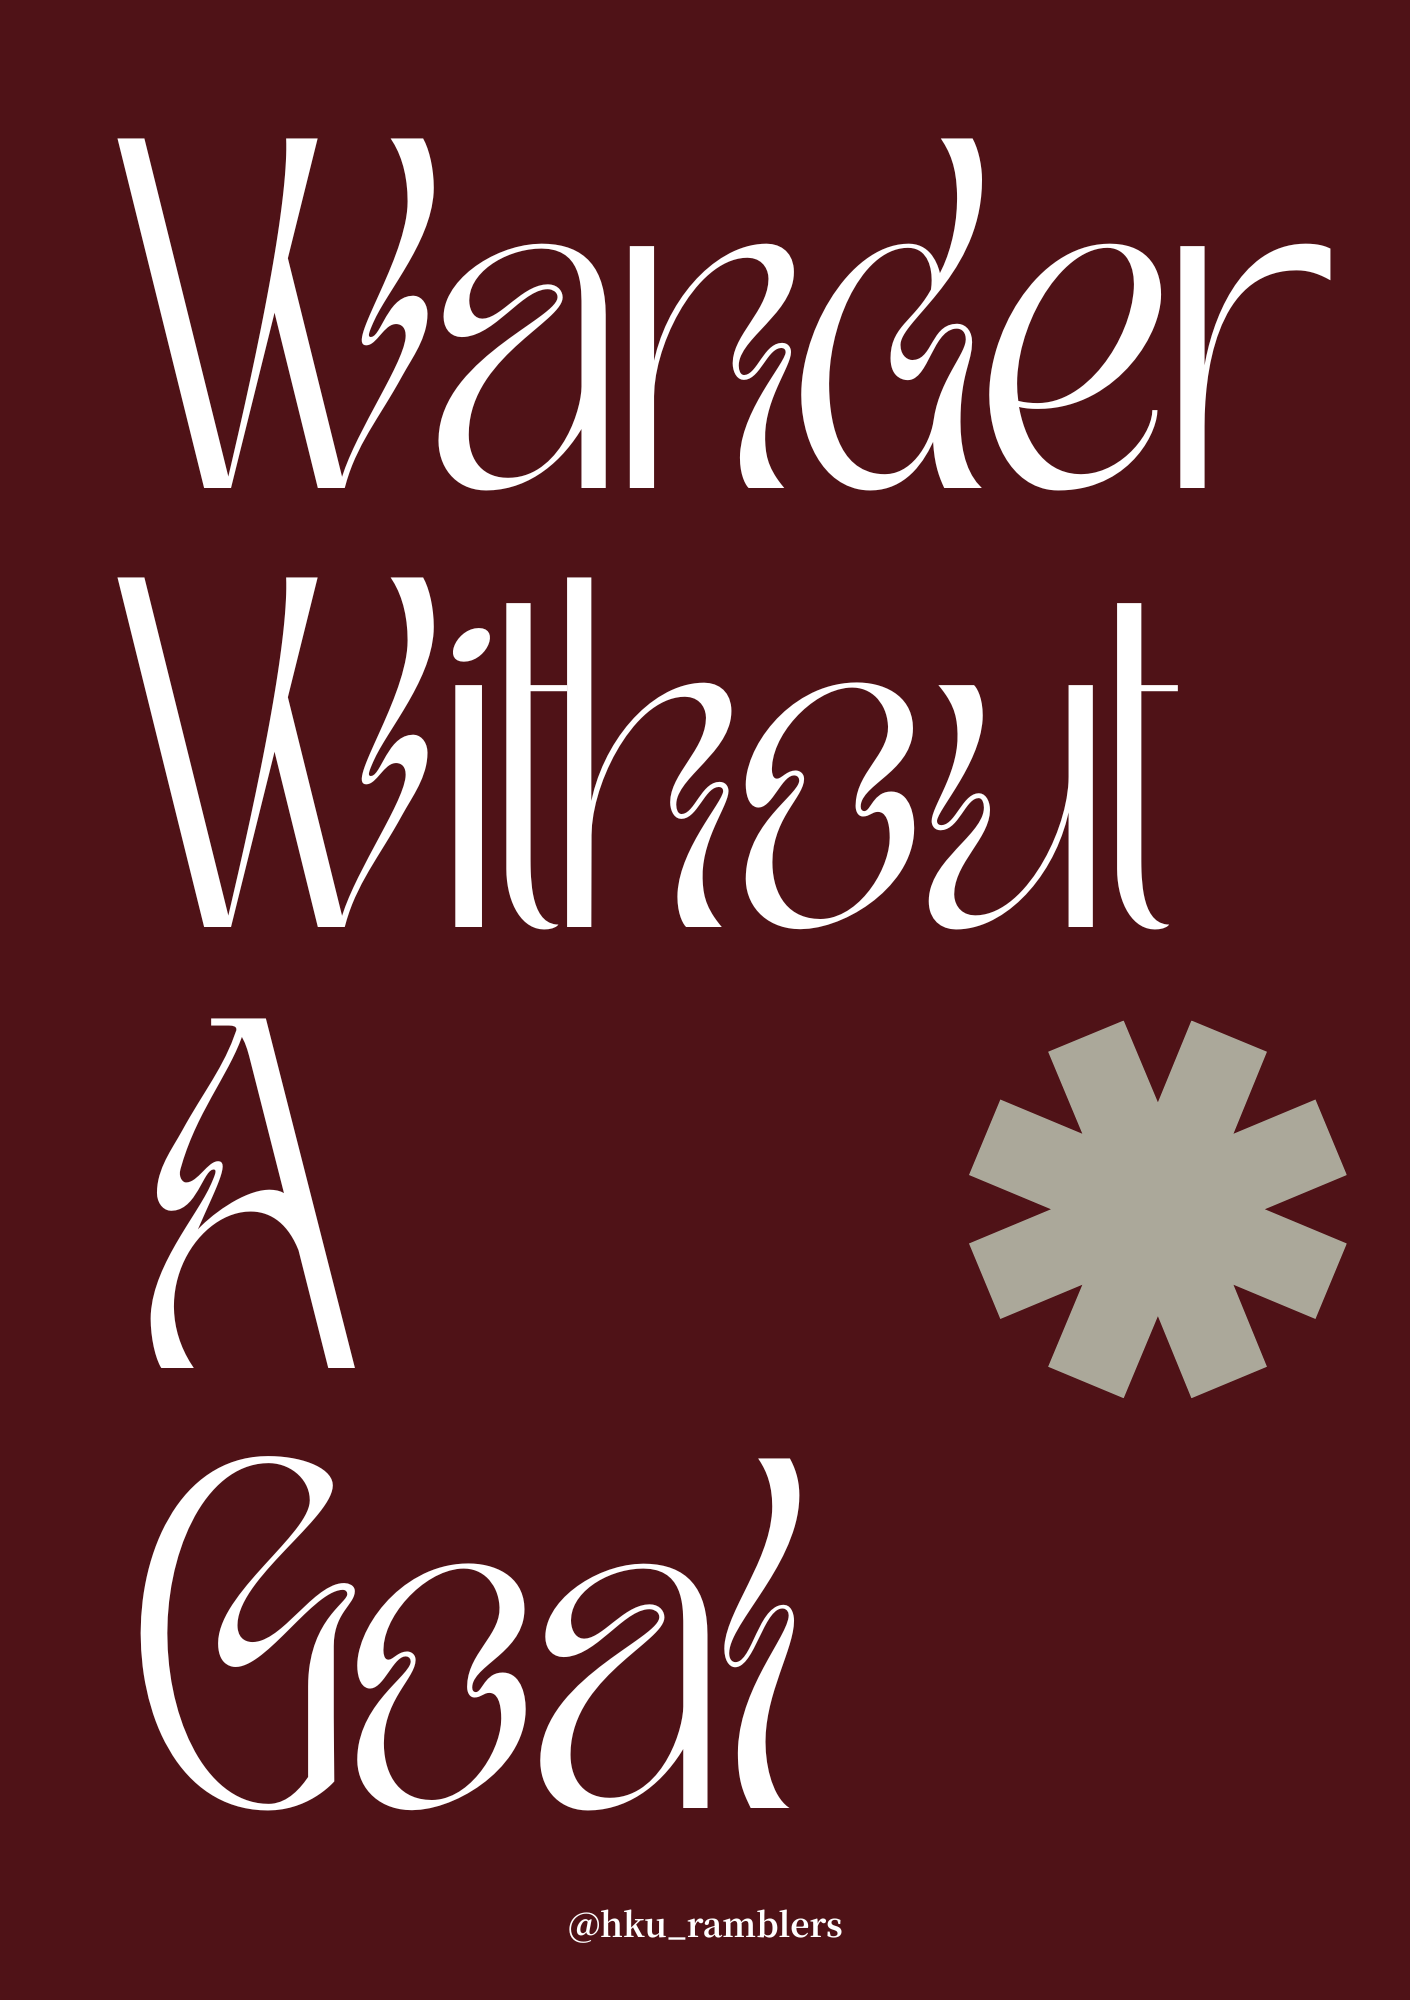
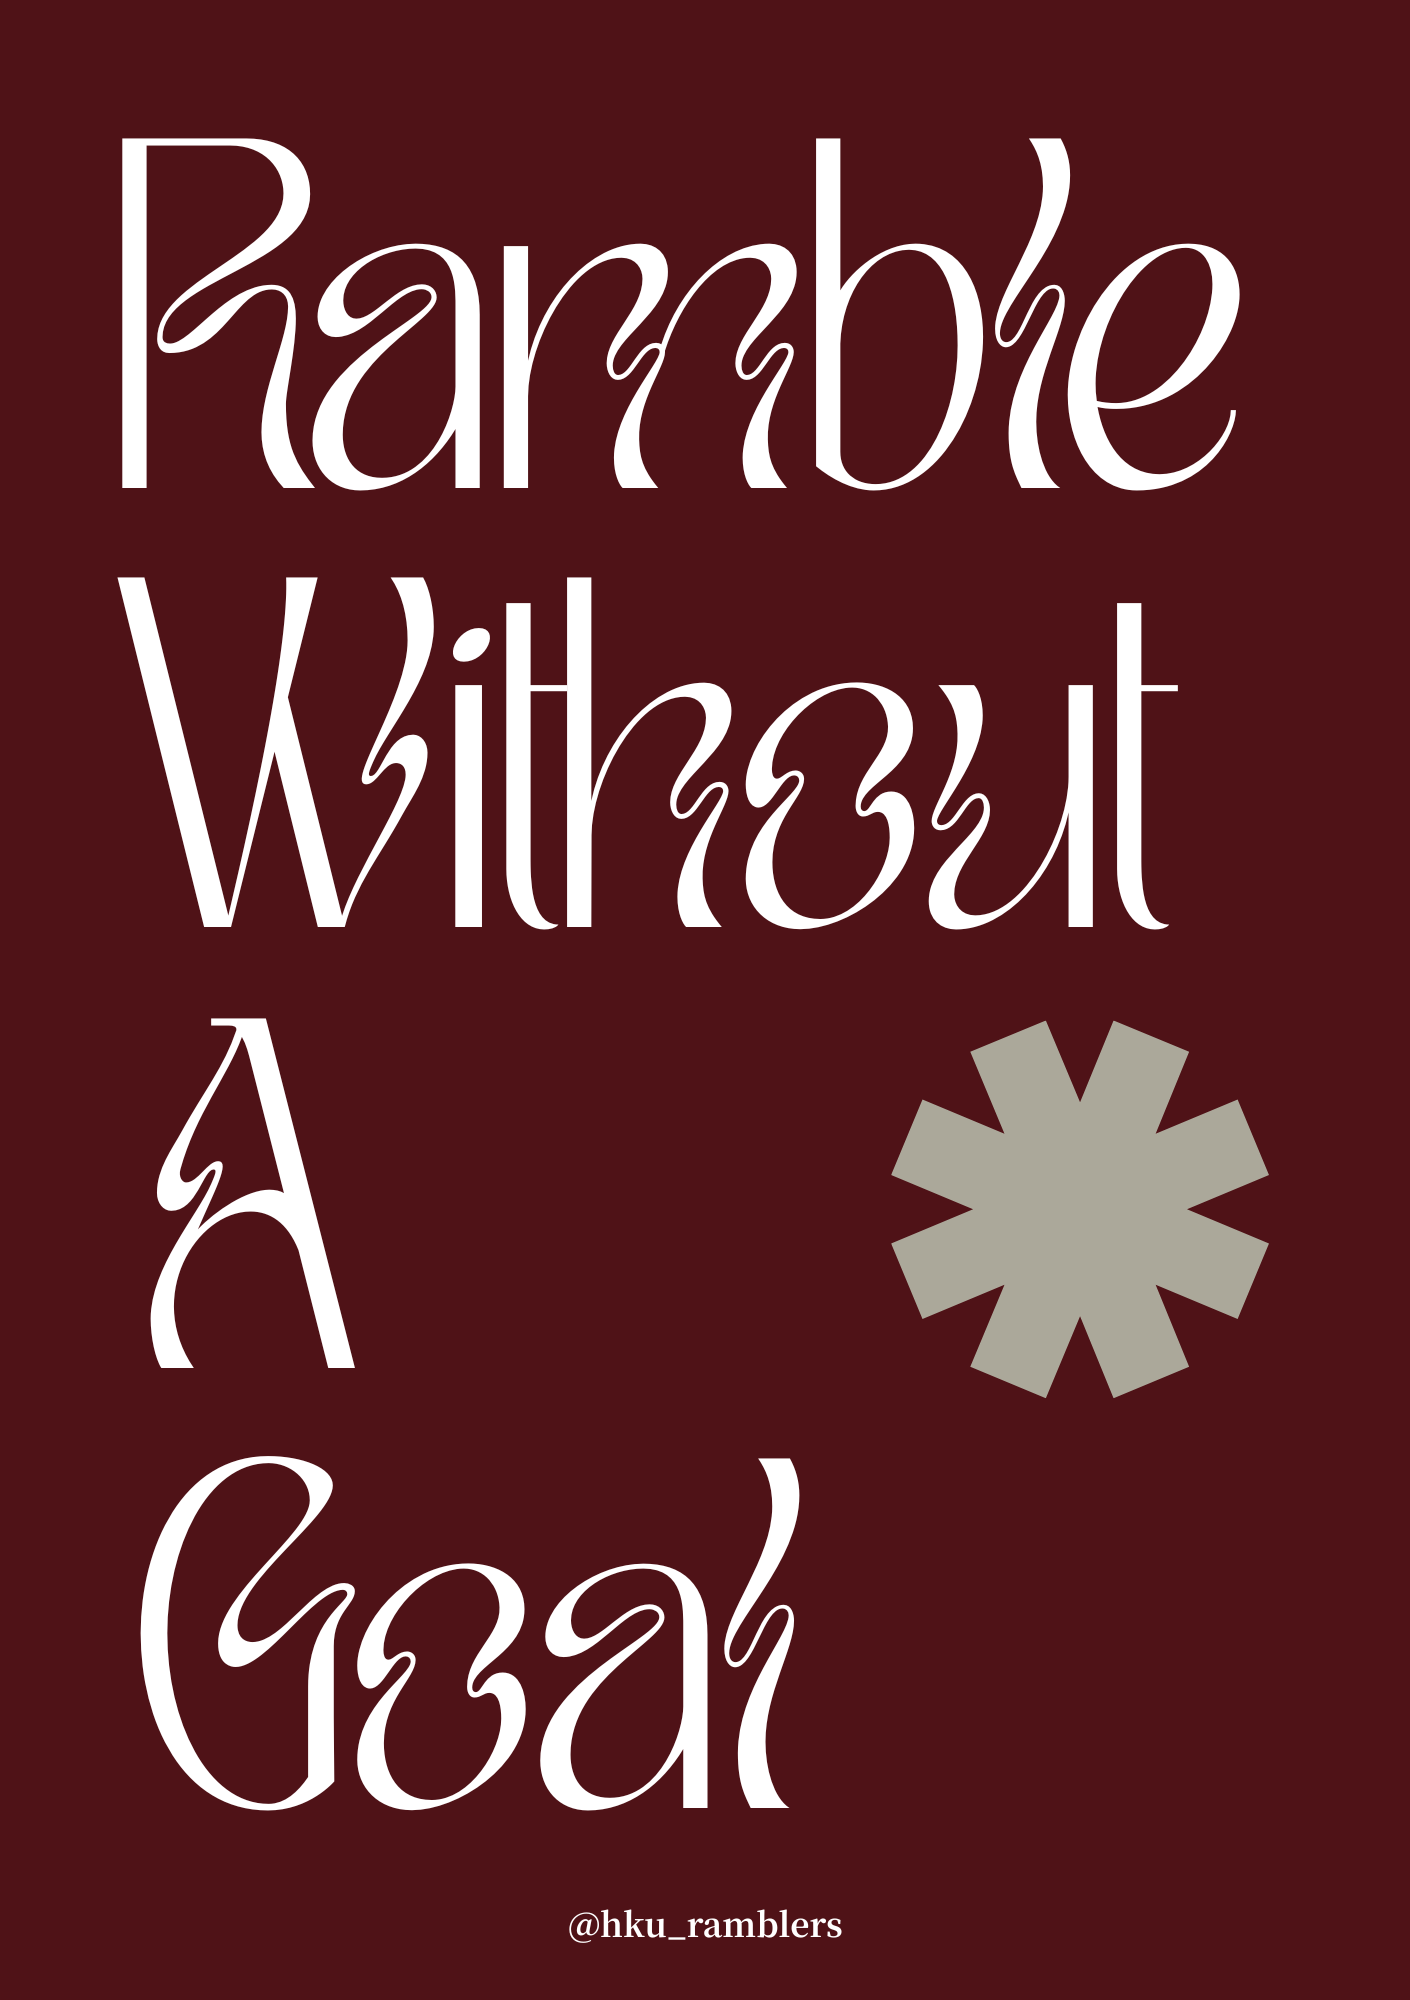
modified:   app.js 	modified:   covers/3.png 	modified:   style.css

Changed region(s): [[0.0624, 0.062, 0.4993, 0.248], [0.5305, 0.062, 0.9674, 0.248], [0.6241, 0.496, 0.9674, 0.713]]

diff --git a/style.css b/style.css
@@ -216,11 +216,18 @@ body {
         padding-bottom: 12px;
     }
     
+    /* 🌟 ZOOMED EDGE-TO-EDGE CONTAINER FOR IPHONE */
     .book-container {
-        height: 75vh; 
+        width: 100vw;       /* Take up 100% of the screen width */
+        height: 80vh;       /* Allocate plenty of vertical height */
+        padding: 0;         /* Clear all side padding gaps */
+        margin: 0;
+        display: flex;
+        justify-content: center;
+        align-items: center;
+        overflow: hidden;   /* Prevents accidental horizontal scrolling */
     }
     
-    /* Shrink the button slightly so it takes less real estate on mobile screens */
     #back-button {
         top: 15px;
         left: 15px;
@@ -242,13 +249,23 @@ body {
         height: 270px;
     }
     
-    /* 🌟 ADJUSTED FOR MAX SCREEN FILL ON DESKTOP */
+    /* 🌟 FORCE MAXIMUM SCREEN EXTRACTION */
     .book-container {
-        width: 95vw;   /* Utilizes 95% of screen width */
-        height: 90vh;  /* Utilizes 90% of screen height */
+        width: 95vw !important;   /* Force container to use 95% of screen width */
+        height: 90vh !important;  /* Force container to use 90% of screen height */
+        display: flex !important;
+        justify-content: center !important;
+        align-items: center !important;
+        margin: 0 auto;
+        padding: 0;
+    }
+
+    /* Target the dynamic wrapper inside the container */
+    #flip-canvas-wrapper {
+        width: 100% !important;
+        height: 100% !important;
         display: flex;
         justify-content: center;
         align-items: center;
-        margin-top: 20px;
     }
 }

diff --git a/app.js b/app.js
@@ -89,31 +89,33 @@ async function openBook(pdfUrl) {
         let singlePageMode = false;
 
         if (screenWidth <= 440) {
-            bookWidth = 340;
-            bookHeight = 500;
+            bookWidth = 390; 
+            bookHeight = 580;
             singlePageMode = true; 
         } else if (screenWidth >= 1024) {
-            // This is the width per page. In double-page mode, the book width will double (e.g., 1600px wide total)
-            bookWidth = 800; 
-            bookHeight = 1050; 
+            // 🌟 MASSIVE DESKTOP SCALE ADJUSTMENT
+            // This represents a SINGLE page size base. 
+            // In double-page view, the library combines them (making it 1900px wide total base).
+            bookWidth = 950; 
+            bookHeight = 1250; 
         }
 
-        // 3. TARGET THE FRESHLY GENERATED INNER CANVAS WRAPPER OBJECT
+        // ALWAYS INSTANTIATE A FRESH OBJECT
         currentPageFlip = new St.PageFlip(flipCanvasWrapper, {
             width: bookWidth, 
             height: bookHeight, 
-            size: "stretch",
-            minWidth: 280,
-            maxWidth: 2000,    
-            minHeight: 400,
-            maxHeight: 2500,   
+            size: "stretch", // 🌟 Allows the canvas elements to scale past their original pixel limits
+            minWidth: 200,   
+            maxWidth: 3000,  // 🌟 Lifted cap to support widescreen Mac retina displays
+            minHeight: 300,
+            maxHeight: 3000, // 🌟 Lifted cap to support widescreen Mac retina displays
             maxShadowOpacity: 0.4,
             showCover: !singlePageMode, 
             usePortrait: singlePageMode, 
             mobileScrollSupport: true 
         });
 
-        // Query selector targeted specifically to pages within our new wrapper context
+        // Load the freshly rendered HTML structures
         currentPageFlip.loadFromHTML(flipCanvasWrapper.querySelectorAll('.page'));
 
     } catch (error) {